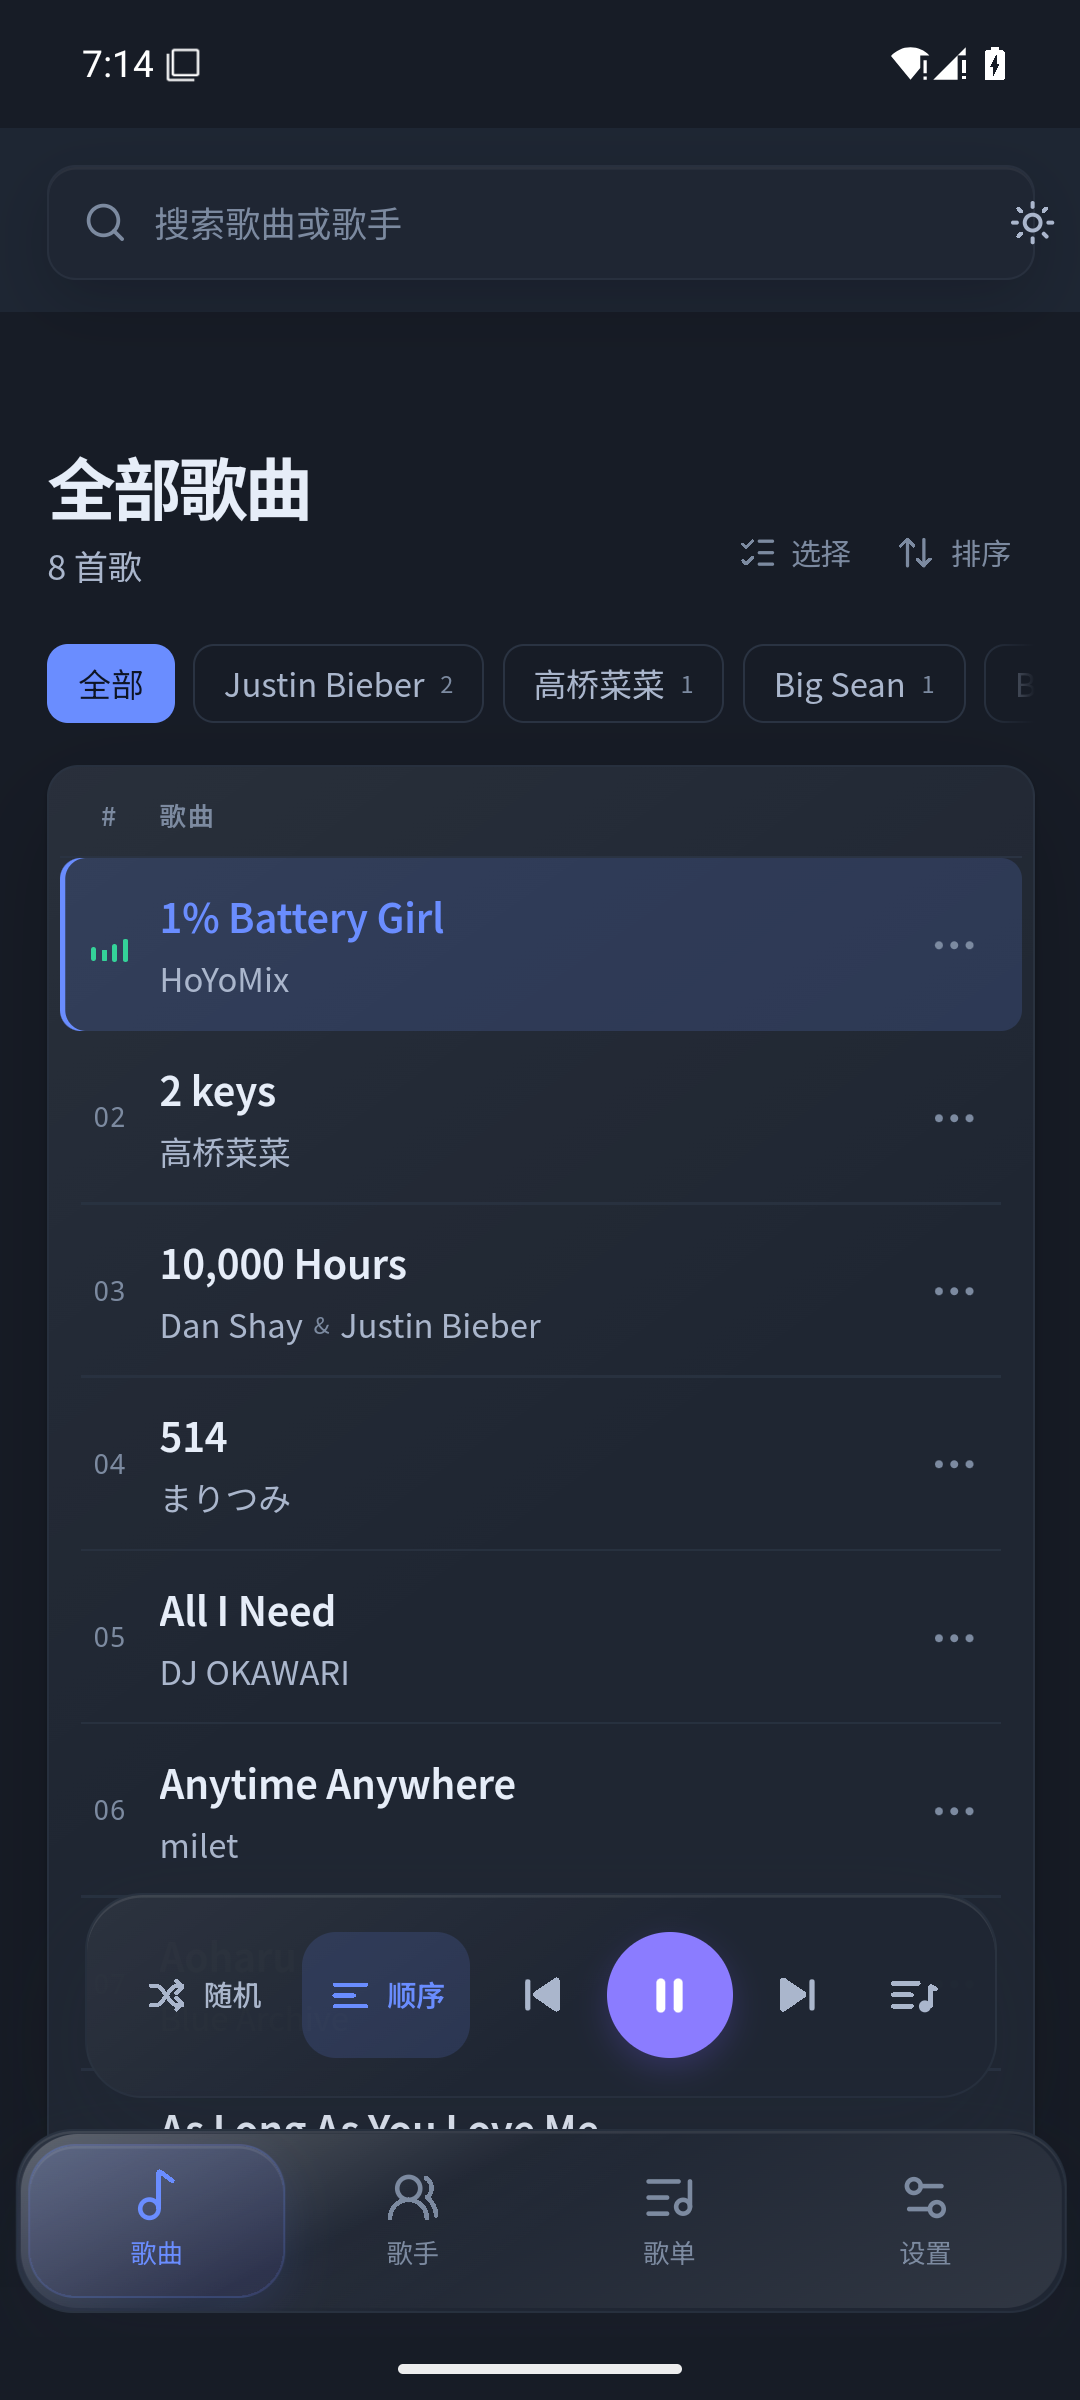
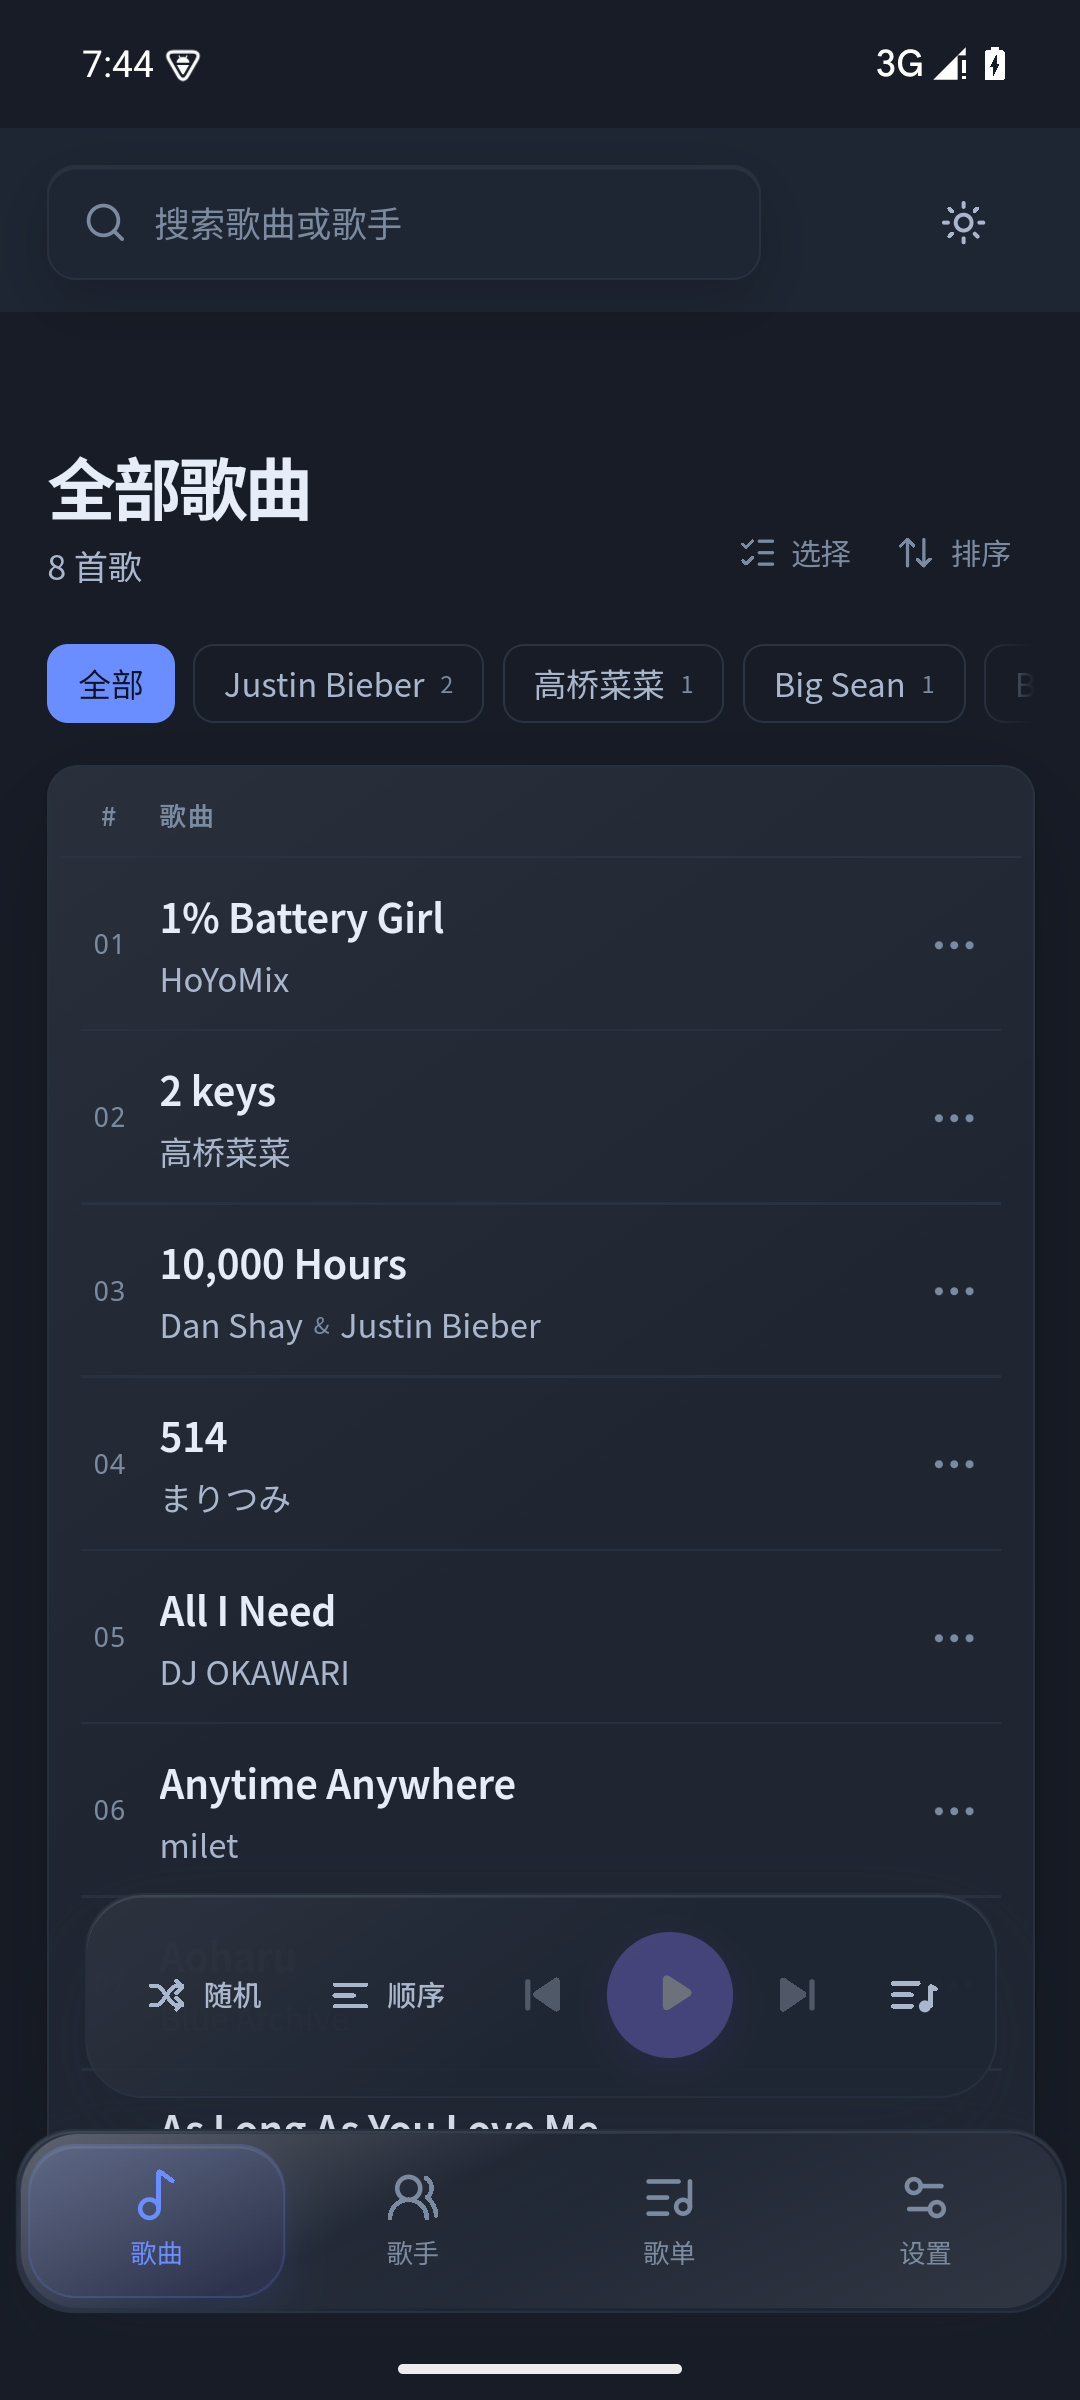
fix:搜索栏过长，暗\亮色模式切换按钮过于靠右

diff --git a/src/styles.css b/src/styles.css
@@ -5329,6 +5329,9 @@ button:focus:not(:focus-visible),
   align-items: center;
   gap: 10px;
   margin-left: auto;
+  /* Desktop window controls sit flush with the top-right corner. */
+  position: absolute;
+  right: 0;
 }
 
 .window-controls {
@@ -7359,4 +7362,19 @@ html.android .player-islands .player-control-group .mode-buttons .mode-button:ho
 /* 1.2.7: the control island keeps its own glass edge; the sheen overlay reads as a pill around the first mode button on Android. */
 html.android .player-islands .player-control-group > .liquid-sheen {
   display: none;
+}
+
+/* 1.2.8: Android topbar — shorter search pill and the theme toggle inset from the edge. */
+html.android .search-field,
+:root.android .search-field {
+  flex: 0 1 auto;
+  width: min(66vw, 300px);
+  margin-right: 0;
+}
+
+html.android .topbar-actions,
+:root.android .topbar-actions {
+  position: static;
+  right: auto;
+  margin-right: 8px;
 }

diff --git a/src/components/Topbar.tsx b/src/components/Topbar.tsx
@@ -206,10 +206,7 @@ export function Topbar({
         </div>
       )}
 
-      <div
-        className="topbar-actions"
-        style={{ position: "absolute", right: "0px" }}
-      >
+      <div className="topbar-actions">
         <button
           type="button"
           className="icon-button theme-button"

diff --git a/docs/RELEASE.md b/docs/RELEASE.md
@@ -4,8 +4,8 @@ Rebuilt 2026-11-05 from the current worktree (web bundle + native Android shell)
 
 | Platform | File | Size | SHA-256 |
 | --- | --- | ---: | --- |
[4 lines of base64/hex data omitted]
 
[1 lines of base64/hex data omitted]
 

diff --git a/README.en.md b/README.en.md
@@ -154,8 +154,8 @@ Signing details, key location, and rebuild commands: [docs/ANDROID.md](docs/ANDR
 
 | Platform | File | Size | SHA-256 |
 | --- | --- | ---: | --- |
[4 lines of base64/hex data omitted]
 
 The same values are recorded in `release/SHA256SUMS.txt`. The APK reports `versionCode` 4, `versionName` 1.2.1, `minSdk` 24, and `targetSdk` 36.
 

diff --git a/README.md b/README.md
@@ -154,8 +154,8 @@ release/Cloud-Music-Android-1.2.1-liquid.apk
 
 | 平台 | 文件 | 大小 | SHA-256 |
 | --- | --- | ---: | --- |
[4 lines of base64/hex data omitted]
 
 同样的值记录在 `release/SHA256SUMS.txt`。APK 的 `versionCode` 为 4，`versionName` 为 1.2.1，`minSdk` 24，`targetSdk` 36。
 
